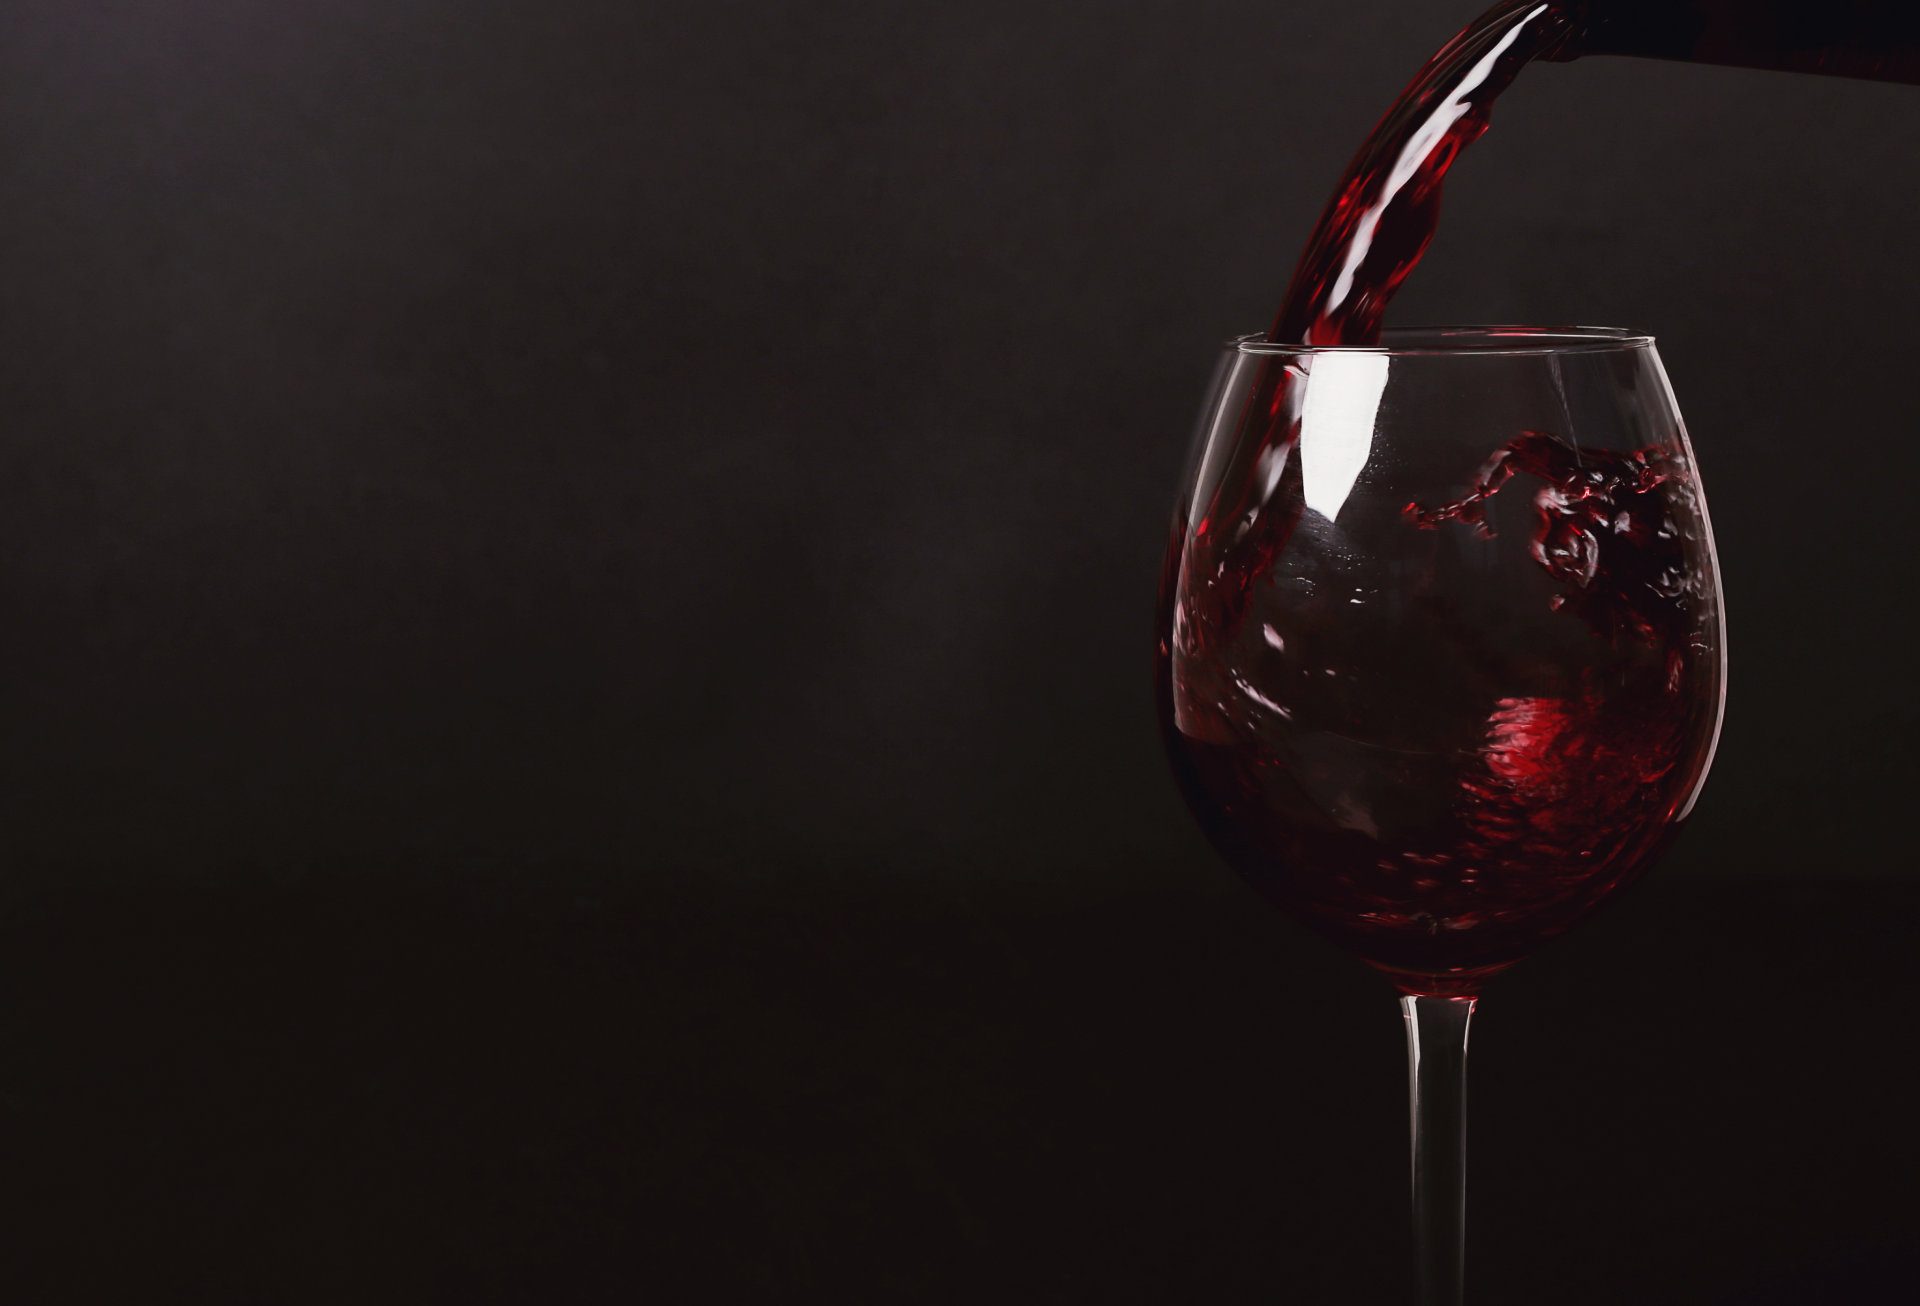
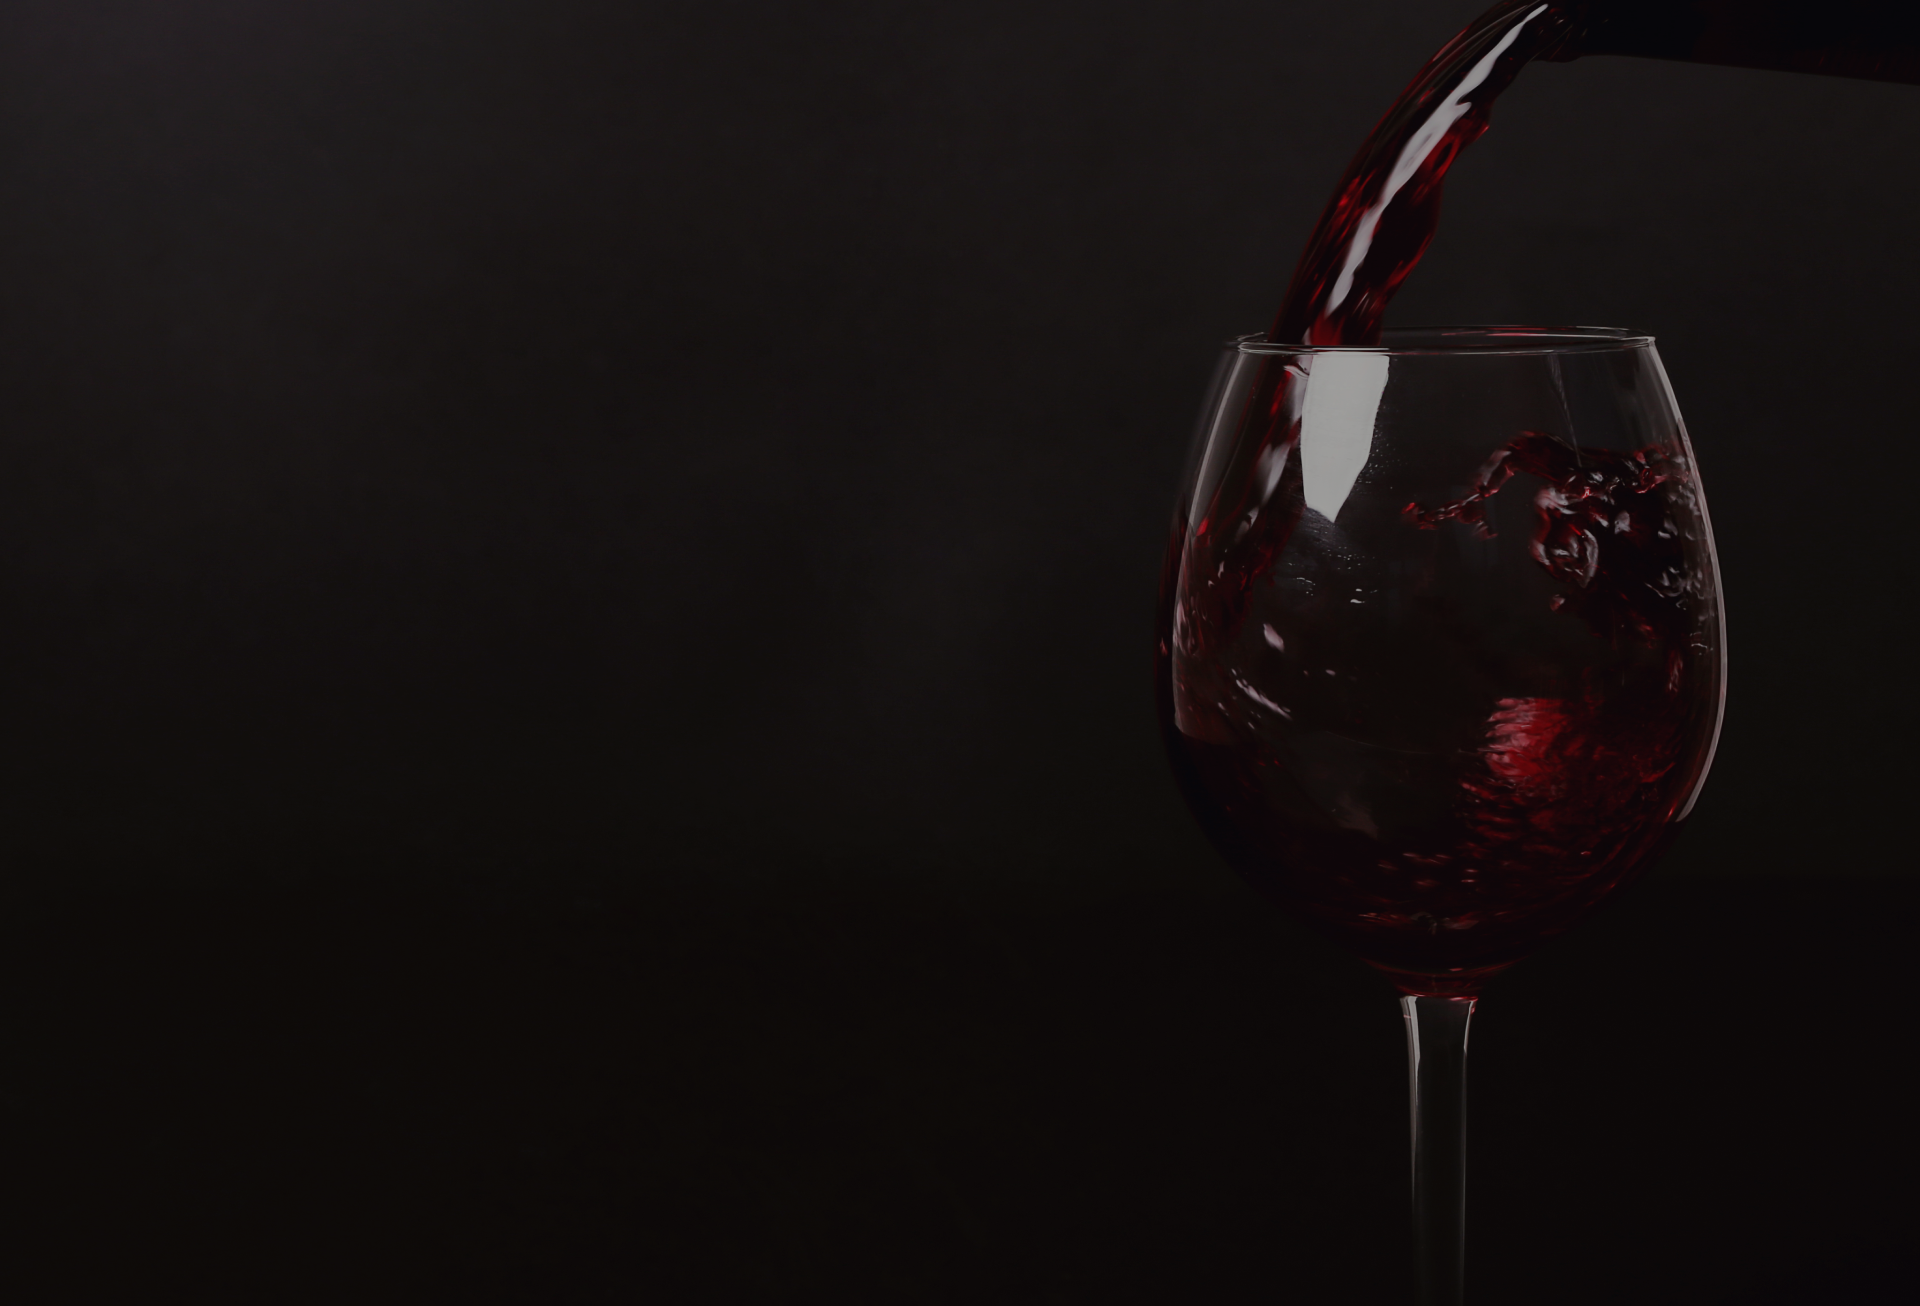
realizando alterações na tela inicial do site

diff --git a/Entregáveis/Algoritmos/Site/index.html b/Entregáveis/Algoritmos/Site/index.html
@@ -9,31 +9,42 @@
   <title>WineTech</title>
   <link rel="preconnect" href="https://fonts.googleapis.com">
   <link rel="preconnect" href="https://fonts.gstatic.com" crossorigin>
-  <link href="https://fonts.googleapis.com/css2?family=Montserrat:wght@400;500;700&family=Bona+Nova:ital,wght@0,400;0,700;1,400&display=swap" rel="stylesheet">
+  <link
+    href="https://fonts.googleapis.com/css2?family=Montserrat:wght@400;500;700&family=Bona+Nova:ital,wght@0,400;0,700;1,400&display=swap"
+    rel="stylesheet">
 </head>
 
 <body>
   <header class="class_cabeçalho">
+    
     <nav class="class_nav">
-      <img onclick="home()" src="/Imagens/Logo/logo-wine-tech-versao-white.png" class="Logo_Wine">
-      <div onclick="home()">HOME</div>
-      <div onclick="sobre_nos()">SOBRE NÓS</div>
-      <div onclick="controle_de_vinhos()">CONTROLE DE LINHAS</div>
-      <div onclick="fale_conosco()">FALE CONOSCO</div>
-      <a href="Login/login.html" class="login">LOGIN</a>
+      <div id="nav_logo">
+        <img onclick="home()" src="/Imagens/Logo/logo-wine-tech-versao-white.png" class="Logo_Wine">
+      </div>
+      <div class="nav_options">
+        <div onclick="home()">HOME</div>
+        <div onclick="sobre_nos()">SOBRE NÓS</div>
+        <div onclick="controle_de_vinhos()">CONTROLE DE VINHOS</div>
+        <div onclick="fale_conosco()">FALE CONOSCO</div>
+      </div>
+      <div id="nav_midias">
+        <a href="Login/login.html" class="login">LOGIN</a>
       <div class="midias">
         <img src="img/facebook.png" alt="Facebook">
         <img src="img/instagram.png" alt="Instagram">
         <img src="img/linkedin .png" alt="Linkedin">
       </div>
+      </div>
     </nav>
     <div class="text_header">
-      <h2>Controle de Temperatura e Umidade</h2>
-        <p>"Nós da WineTech visamos sofisticar, monitorar e aprimorar armazéns de vinho dos nossos clientes trazendo a tecnologia para o tradicional fazendo com que exista  um bom rendimento e uma alta qualidade dos produtos."</p>
-        <button>SAIBA MAIS</button>
-      </div>
+      <h2>CONTROLE DE TEMPERATURA E UMIDADE</h2>
+      <p>"Nós da WineTech visamos sofisticar, monitorar e aprimorar armazéns de vinho dos nossos clientes trazendo a
+        tecnologia para o tradicional fazendo com que exista um bom rendimento e uma alta qualidade dos produtos."</p>
+      <button>SAIBA MAIS</button>
+    </div>
   </header>
-      <main class="conteudo_principal">
+  <main class="conteudo_principal">
+
     <section class="section_1">
 
     </section>

diff --git a/Entregáveis/Algoritmos/Site/style.css b/Entregáveis/Algoritmos/Site/style.css
@@ -6,7 +6,6 @@
 
 header {
     background-image: url(img/red-wine\ 1.png);
-    background-color: rgba(0, 0, 0, 0.42);
     width: 100;
     height: 100vh;
     background-repeat: no-repeat;
@@ -14,7 +13,7 @@ header {
     display: flex;
     justify-content: center;
     flex-direction: column;
-    padding-top: 2%;
+    padding-top: 1%;
 }
 
 nav {
@@ -27,27 +26,32 @@ nav {
     font-family: "Montserrat";
     font-weight: 400;
     margin: 0 10%;
-    font-size: 17px;
+    font-size: 15px;
 
 }
 
 .login {
     display: inline-flex;
-    padding: 10px 67px;
+    padding: 10px 54px;
     justify-content: center;
     align-items: center;
     gap: 10px;
     border-radius: 30px;
     border: 1px solid #FFF;
-    font-size: 20px;
+    font-size: 18px;
     color: white;
     text-decoration: none;
+    font-weight: 700;
+    font-style: normal;
+    line-height: normal;
+    
 }
 
 .midias {
     padding: 0%;
     border: 0%;
     margin: 0%;
+    display: inline-flex;
 }
 
 .Logo_Wine {
@@ -74,15 +78,16 @@ nav {
     color: #FFF;
     text-align: center;
     font-family: "Bona Nova";
-    font-size: 55px;
+    font-size: 45px;
     font-style: normal;
     font-weight: 400;
     line-height: normal;
+    margin-top: 25%;
 }
 
 .class_cabeçalho .text_header button {
     display: inline-flex;
-padding: 16px 118px;
+padding: 16px 100px;
 justify-content: center;
 align-items: center;
 gap: 10px;
@@ -97,10 +102,28 @@ font-style: normal;
 font-weight: 600;
 line-height: 128.9%; /* 25.78px */
 letter-spacing: 0.5px;
+margin-top: 7%;
+flex-shrink: 0;
+
 }
 
 .class_cabeçalho .text_header P {
     width: 837px;
     height: 78px;
     
+}
+
+header nav .nav_options {
+    display: flex;
+    justify-content: space-between;
+    width: 44%;
+    
+}
+
+header nav #nav_midias{
+    margin-right: 100px;
+}
+
+.midias img{
+    height: 25px;
 }
